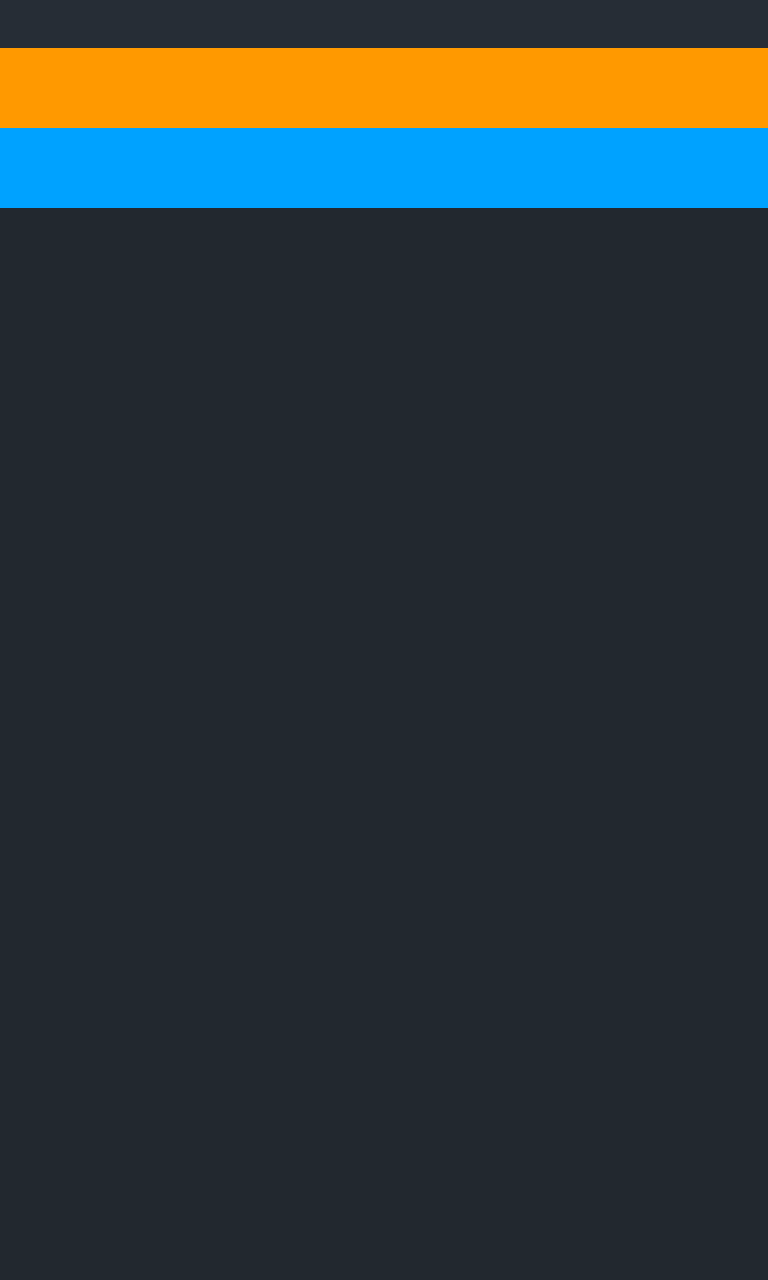
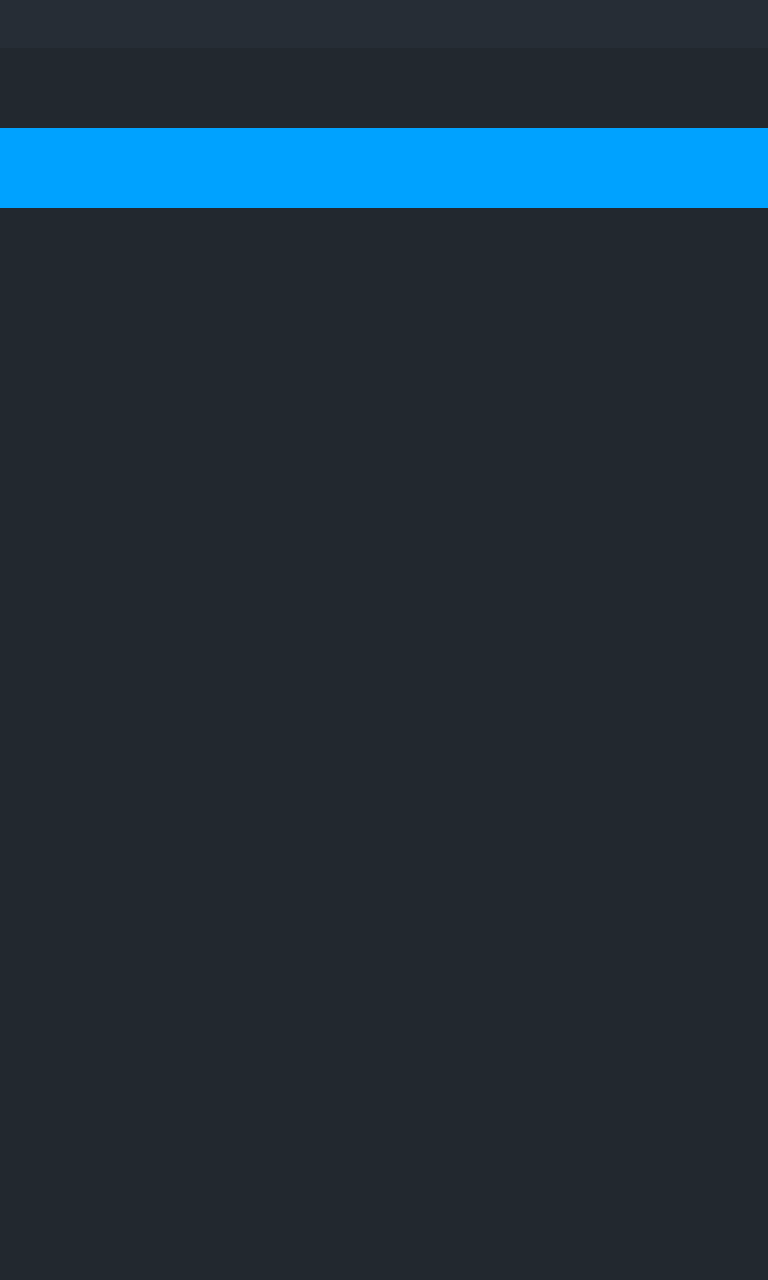
Change ignored views visibility

Changed region(s): [[0.0, 0.0312, 1.0, 0.125]]

diff --git a/shot-android/src/main/java/com/karumi/shot/ScreenshotTest.kt b/shot-android/src/main/java/com/karumi/shot/ScreenshotTest.kt
@@ -6,6 +6,7 @@ import android.content.Context
 import android.util.DisplayMetrics
 import android.util.Log
 import android.view.View
+import android.view.View.INVISIBLE
 import android.view.WindowManager
 import android.widget.EditText
 import androidx.fragment.app.Fragment
@@ -20,6 +21,9 @@ import com.facebook.testing.screenshot.internal.TestNameDetector
 interface ScreenshotTest {
 
     private val context: Context get() = getInstrumentation().targetContext
+
+    val ignoredViews: List<Int>
+        get() = emptyList()
 
     /**
      * Function designed to be executed right before the screenshot is taken. Override it
@@ -67,7 +71,7 @@ interface ScreenshotTest {
     }
 
     fun compareScreenshot(holder: RecyclerView.ViewHolder, heightInPx: Int, widthInPx: Int? = null) =
-            compareScreenshot(view = holder.itemView, heightInPx = heightInPx, widthInPx = widthInPx)
+        compareScreenshot(view = holder.itemView, heightInPx = heightInPx, widthInPx = widthInPx)
 
     fun compareScreenshot(view: View, heightInPx: Int? = null, widthInPx: Int? = null, name: String? = null) {
         disableFlakyComponentsAndWaitForIdle(view)
@@ -83,9 +87,9 @@ interface ScreenshotTest {
         val heightInDp = heightInPx ?: height
         runOnUi {
             ViewHelpers.setupView(view)
-                    .setExactHeightPx(heightInDp)
-                    .setExactWidthPx(width)
-                    .layout()
+                .setExactHeightPx(heightInDp)
+                .setExactWidthPx(width)
+                .layout()
         }
         takeViewSnapshot(name, view)
     }
@@ -93,8 +97,14 @@ interface ScreenshotTest {
     fun disableFlakyComponentsAndWaitForIdle(view: View) {
         prepareUIForScreenshot()
         disableAnimatedComponents(view)
+        hideIgnoredViews(view)
         waitForAnimationsToFinish()
     }
+
+    private fun hideIgnoredViews(view: View) =
+        view.filterChildrenViews { children -> children.id in ignoredViews }.forEach { viewToIgnore ->
+            viewToIgnore.visibility = INVISIBLE
+        }
 
     fun waitForAnimationsToFinish() {
         getInstrumentation().waitForIdleSync()
@@ -110,9 +120,9 @@ interface ScreenshotTest {
         val snapshotName = "${TestNameDetector.getTestClass()}_$testName"
         try {
             Screenshot
-                    .snap(view)
-                    .setName(snapshotName)
-                    .record()
+                .snap(view)
+                .setName(snapshotName)
+                .record()
         } catch (t: Throwable) {
             Log.e("Shot", "Exception captured while taking screenshot for snapshot with name $snapshotName", t)
         }

diff --git a/shot-consumer/app/src/androidTest/java/com/karumi/ui/view/HideViewsActivityTest.kt b/shot-consumer/app/src/androidTest/java/com/karumi/ui/view/HideViewsActivityTest.kt
@@ -1,9 +1,12 @@
 package com.karumi.ui.view
 
 import com.github.salomonbrys.kodein.Kodein
+import com.karumi.R
 import org.junit.Test
 
 class HideViewsActivityTest : AcceptanceTest<HideViewsActivity>(HideViewsActivity::class.java) {
+
+    override val ignoredViews: List<Int> = listOf(R.id.view1)
 
     @Test
     fun showsActivityWithViewsInside() {
